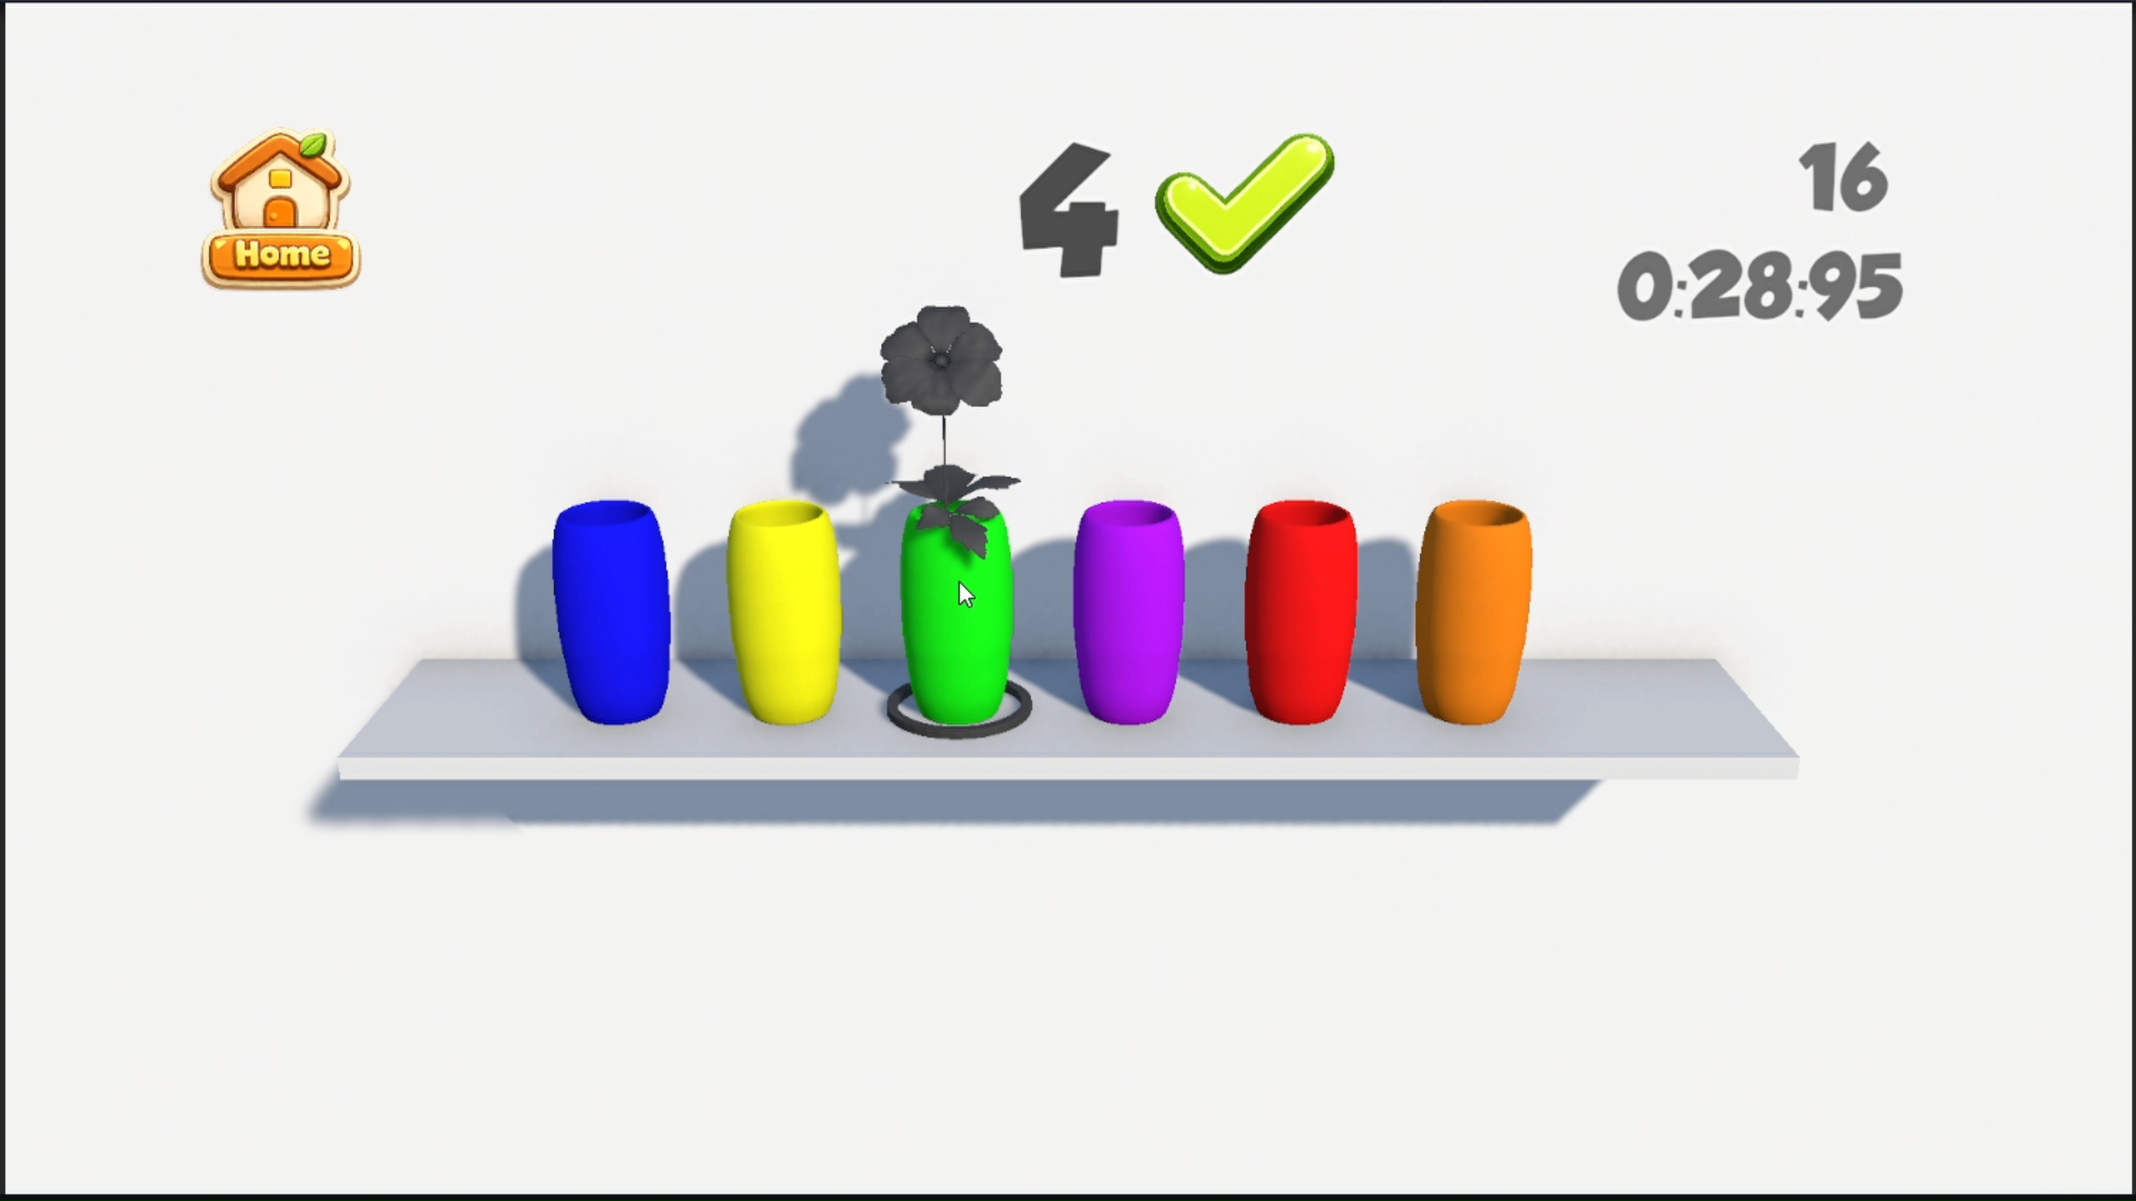
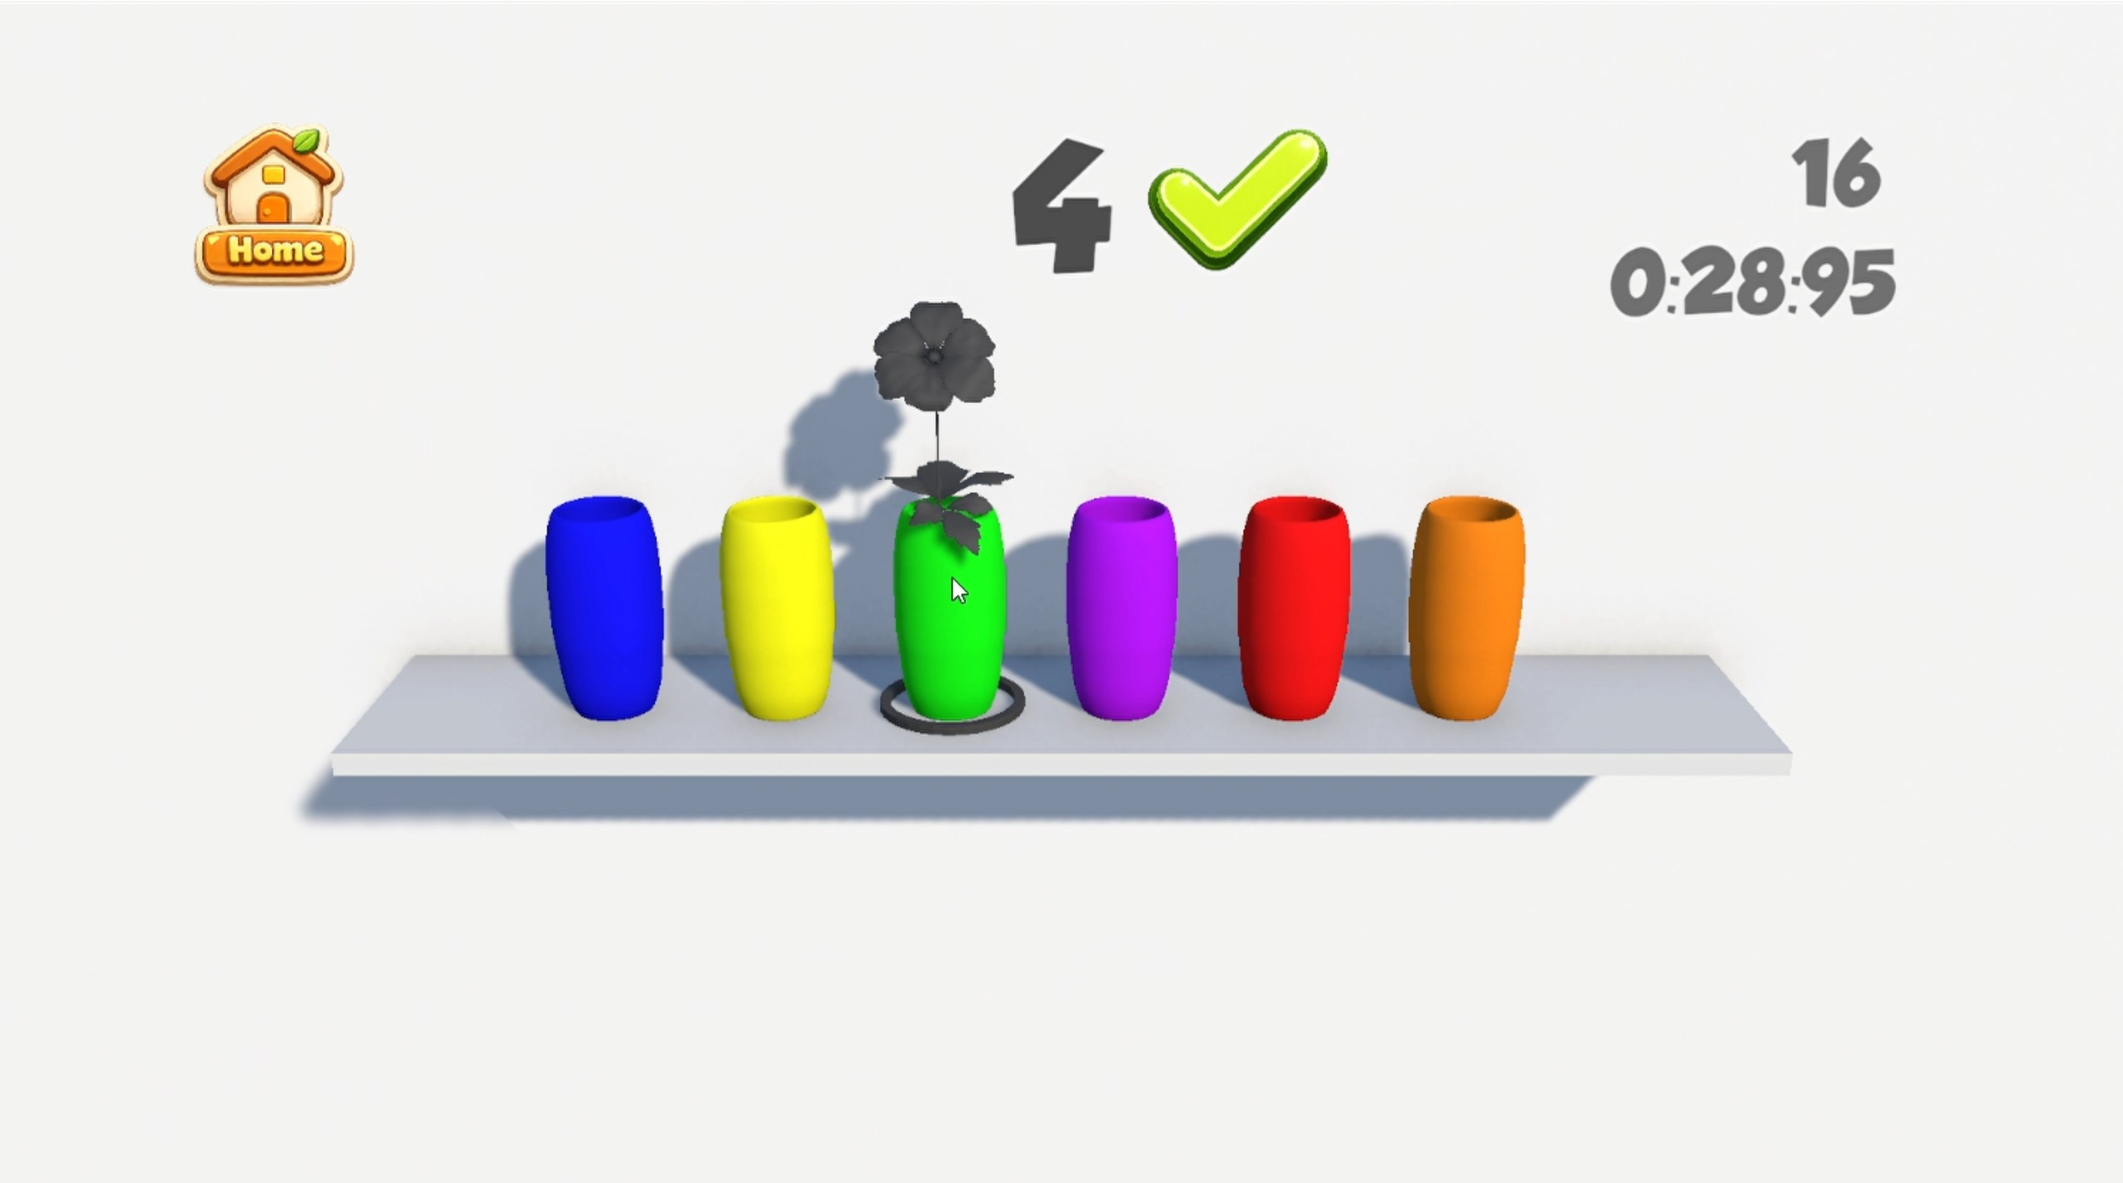
feat: Add portfolio category filters
Add accessible category buttons to filter project cards, refine modal media sizing and logo display, and improve pointer cursors and close-button styling. Update the Guess the Order image.

diff --git a/index.html b/index.html
@@ -302,10 +302,15 @@
             </p>
           </div>
 
-          <div id="portfolio-grid" class="grid grid-cols-1 divide-y divide-neutral-200 md:grid-cols-2 md:divide-y-0 md:gap-x-12 md:gap-y-24 xl:grid-cols-3">
+          <div class="mb-8 flex flex-wrap gap-2" role="group" aria-label="Filtrar projetos por categoria">
+            <button type="button" data-category-filter="all" aria-pressed="true" class="cursor-pointer rounded-full border border-neutral-950 bg-neutral-950 px-4 py-2 text-sm font-medium text-white focus-visible:outline-2 focus-visible:outline-offset-2 focus-visible:outline-black">Todos</button>
+            <button type="button" data-category-filter="web" aria-pressed="false" class="cursor-pointer rounded-full border border-neutral-300 px-4 py-2 text-sm font-medium text-neutral-700 hover:border-neutral-950 focus-visible:outline-2 focus-visible:outline-offset-2 focus-visible:outline-black aria-pressed:bg-neutral-950 aria-pressed:text-white">Web</button>
+            <button type="button" data-category-filter="unity-vr" aria-pressed="false" class="cursor-pointer rounded-full border border-neutral-300 px-4 py-2 text-sm font-medium text-neutral-700 hover:border-neutral-950 focus-visible:outline-2 focus-visible:outline-offset-2 focus-visible:outline-black aria-pressed:bg-neutral-950 aria-pressed:text-white">Unity · VR</button>
+            <button type="button" data-category-filter="design" aria-pressed="false" class="cursor-pointer rounded-full border border-neutral-300 px-4 py-2 text-sm font-medium text-neutral-700 hover:border-neutral-950 focus-visible:outline-2 focus-visible:outline-offset-2 focus-visible:outline-black aria-pressed:bg-neutral-950 aria-pressed:text-white">Design</button>
+          </div>          <div id="portfolio-grid" class="grid grid-cols-1 divide-y divide-neutral-200 md:grid-cols-2 md:divide-y-0 md:gap-x-12 md:gap-y-24 xl:grid-cols-3">
 
             <article class="group min-w-0 py-8 first:pt-0 last:pb-0 md:py-0 md:odd:mt-16 xl:mt-0" data-category="web">
-              <button class="portfolio-trigger relative block w-full overflow-hidden rounded-2xl bg-neutral-100 text-left focus-visible:outline-2 focus-visible:outline-offset-4 focus-visible:outline-black" data-project-id="calculadora"
+              <button class="portfolio-trigger relative block w-full cursor-pointer overflow-hidden rounded-2xl bg-neutral-100 text-left focus-visible:outline-2 focus-visible:outline-offset-4 focus-visible:outline-black" data-project-id="calculadora"
                 aria-label="Explorar Calculadora para compras">
                 <img src="/images/web/calculadoraMercado.jpg" alt="Interface da Calculadora para compras"
                   loading="lazy" class="aspect-[4/3] w-full object-cover transition duration-500 group-hover:scale-[1.03]">
@@ -319,7 +324,7 @@
             </article>
 
             <article class="group min-w-0 py-8 first:pt-0 last:pb-0 md:py-0 md:odd:mt-16 xl:mt-0" data-category="web">
-              <button class="portfolio-trigger relative block w-full overflow-hidden rounded-2xl bg-neutral-100 text-left focus-visible:outline-2 focus-visible:outline-offset-4 focus-visible:outline-black" data-project-id="simon" aria-label="Explorar Jogo Simon">
+              <button class="portfolio-trigger relative block w-full cursor-pointer overflow-hidden rounded-2xl bg-neutral-100 text-left focus-visible:outline-2 focus-visible:outline-offset-4 focus-visible:outline-black" data-project-id="simon" aria-label="Explorar Jogo Simon">
                 <img src="/images/web/jogoSimon.jpg" alt="Interface do jogo Simon" loading="lazy" class="aspect-[4/3] w-full object-cover transition duration-500 group-hover:scale-[1.03]">
                 <span class="absolute inset-x-0 bottom-0 flex items-center justify-between bg-gradient-to-t from-black/70 to-transparent px-5 pb-5 pt-12 text-sm font-medium text-white">Explorar projeto <span aria-hidden="true">↗</span></span>
               </button>
@@ -331,7 +336,7 @@
             </article>
 
             <article class="group min-w-0 py-8 first:pt-0 last:pb-0 md:py-0 md:odd:mt-16 xl:mt-0" data-category="unity-vr">
-              <button class="portfolio-trigger relative block w-full overflow-hidden rounded-2xl bg-neutral-100 text-left focus-visible:outline-2 focus-visible:outline-offset-4 focus-visible:outline-black" data-project-id="archery" aria-label="Explorar Archery Valley VR">
+              <button class="portfolio-trigger relative block w-full cursor-pointer overflow-hidden rounded-2xl bg-neutral-100 text-left focus-visible:outline-2 focus-visible:outline-offset-4 focus-visible:outline-black" data-project-id="archery" aria-label="Explorar Archery Valley VR">
                 <img src="/images/unity-vr/archery_valley_vr/img1_archery_valley_VR.jpg"
                   alt="Archery Valley VR em funcionamento" loading="lazy" class="aspect-[4/3] w-full object-cover transition duration-500 group-hover:scale-[1.03]">
                 <span class="absolute inset-x-0 bottom-0 flex items-center justify-between bg-gradient-to-t from-black/70 to-transparent px-5 pb-5 pt-12 text-sm font-medium text-white">Explorar projeto <span aria-hidden="true">↗</span></span>
@@ -344,7 +349,7 @@
             </article>
 
             <article class="group min-w-0 py-8 first:pt-0 last:pb-0 md:py-0 md:odd:mt-16 xl:mt-0" data-category="unity-vr">
-              <button class="portfolio-trigger relative block w-full overflow-hidden rounded-2xl bg-neutral-100 text-left focus-visible:outline-2 focus-visible:outline-offset-4 focus-visible:outline-black" data-project-id="fuel-rush" aria-label="Explorar Fuel Rush">
+              <button class="portfolio-trigger relative block w-full cursor-pointer overflow-hidden rounded-2xl bg-neutral-100 text-left focus-visible:outline-2 focus-visible:outline-offset-4 focus-visible:outline-black" data-project-id="fuel-rush" aria-label="Explorar Fuel Rush">
                 <img src="/images/unity-vr/Fuel_Rush/img1_fuel_rush.jpg" alt="Imagem de gameplay de Fuel Rush"
                   loading="lazy" class="aspect-[4/3] w-full object-cover transition duration-500 group-hover:scale-[1.03]">
                 <span class="absolute inset-x-0 bottom-0 flex items-center justify-between bg-gradient-to-t from-black/70 to-transparent px-5 pb-5 pt-12 text-sm font-medium text-white">Explorar projeto <span aria-hidden="true">↗</span></span>
@@ -357,7 +362,7 @@
             </article>
 
             <article class="group min-w-0 py-8 first:pt-0 last:pb-0 md:py-0 md:odd:mt-16 xl:mt-0" data-category="unity-vr">
-              <button class="portfolio-trigger relative block w-full overflow-hidden rounded-2xl bg-neutral-100 text-left focus-visible:outline-2 focus-visible:outline-offset-4 focus-visible:outline-black" data-project-id="guess-order" aria-label="Explorar Guess the Order">
+              <button class="portfolio-trigger relative block w-full cursor-pointer overflow-hidden rounded-2xl bg-neutral-100 text-left focus-visible:outline-2 focus-visible:outline-offset-4 focus-visible:outline-black" data-project-id="guess-order" aria-label="Explorar Guess the Order">
                 <img src="/images/unity-vr/guess_the_order/img1_guess_the_order.jpg"
                   alt="Imagem de gameplay de Guess the Order" loading="lazy" class="aspect-[4/3] w-full object-cover transition duration-500 group-hover:scale-[1.03]">
                 <span class="absolute inset-x-0 bottom-0 flex items-center justify-between bg-gradient-to-t from-black/70 to-transparent px-5 pb-5 pt-12 text-sm font-medium text-white">Explorar projeto <span aria-hidden="true">↗</span></span>
@@ -370,7 +375,7 @@
             </article>
 
             <article class="group min-w-0 py-8 first:pt-0 last:pb-0 md:py-0 md:odd:mt-16 xl:mt-0" data-category="design">
-              <button class="portfolio-trigger relative block w-full overflow-hidden rounded-2xl bg-neutral-100 text-left focus-visible:outline-2 focus-visible:outline-offset-4 focus-visible:outline-black" data-project-id="savana" aria-label="Explorar identidade visual Savana">
+              <button class="portfolio-trigger relative block w-full cursor-pointer overflow-hidden rounded-2xl bg-neutral-100 text-left focus-visible:outline-2 focus-visible:outline-offset-4 focus-visible:outline-black" data-project-id="savana" aria-label="Explorar identidade visual Savana">
                 <img src="/images/design/logo_savana.jpg" alt="Logótipo Savana" loading="lazy" class="aspect-[4/3] w-full object-cover transition duration-500 group-hover:scale-[1.03]">
                 <span class="absolute inset-x-0 bottom-0 flex items-center justify-between bg-gradient-to-t from-black/70 to-transparent px-5 pb-5 pt-12 text-sm font-medium text-white">Explorar projeto <span aria-hidden="true">↗</span></span>
               </button>
@@ -382,7 +387,7 @@
             </article>
 
             <article class="group min-w-0 py-8 first:pt-0 last:pb-0 md:py-0 md:odd:mt-16 xl:mt-0" data-category="design">
-              <button class="portfolio-trigger relative block w-full overflow-hidden rounded-2xl bg-neutral-100 text-left focus-visible:outline-2 focus-visible:outline-offset-4 focus-visible:outline-black" data-project-id="tio-marlos" aria-label="Explorar Barbearia Tio Marlos">
+              <button class="portfolio-trigger relative block w-full cursor-pointer overflow-hidden rounded-2xl bg-neutral-100 text-left focus-visible:outline-2 focus-visible:outline-offset-4 focus-visible:outline-black" data-project-id="tio-marlos" aria-label="Explorar Barbearia Tio Marlos">
                 <img src="/images/design/logo_barbearia_tio_marlos.jpg" alt="Logótipo Barbearia Tio Marlos"
                   loading="lazy" class="aspect-[4/3] w-full object-cover transition duration-500 group-hover:scale-[1.03]">
                 <span class="absolute inset-x-0 bottom-0 flex items-center justify-between bg-gradient-to-t from-black/70 to-transparent px-5 pb-5 pt-12 text-sm font-medium text-white">Explorar projeto <span aria-hidden="true">↗</span></span>
@@ -395,7 +400,7 @@
             </article>
 
             <article class="group min-w-0 py-8 first:pt-0 last:pb-0 md:py-0 md:odd:mt-16 xl:mt-0" data-category="design">
-              <button class="portfolio-trigger relative block w-full overflow-hidden rounded-2xl bg-neutral-100 text-left focus-visible:outline-2 focus-visible:outline-offset-4 focus-visible:outline-black" data-project-id="sallasinfor"
+              <button class="portfolio-trigger relative block w-full cursor-pointer overflow-hidden rounded-2xl bg-neutral-100 text-left focus-visible:outline-2 focus-visible:outline-offset-4 focus-visible:outline-black" data-project-id="sallasinfor"
                 aria-label="Explorar identidade visual Sallasinfor">
                 <img src="/images/design/logo_sallasinfor.jpg" alt="Logótipo Sallasinfor" loading="lazy" class="aspect-[4/3] w-full object-cover transition duration-500 group-hover:scale-[1.03]">
                 <span class="absolute inset-x-0 bottom-0 flex items-center justify-between bg-gradient-to-t from-black/70 to-transparent px-5 pb-5 pt-12 text-sm font-medium text-white">Explorar projeto <span aria-hidden="true">↗</span></span>
@@ -408,7 +413,7 @@
             </article>
 
             <article class="group min-w-0 py-8 first:pt-0 last:pb-0 md:py-0 md:odd:mt-16 xl:mt-0" data-category="design">
-              <button class="portfolio-trigger relative block w-full overflow-hidden rounded-2xl bg-neutral-100 text-left focus-visible:outline-2 focus-visible:outline-offset-4 focus-visible:outline-black" data-project-id="quarteto-art"
+              <button class="portfolio-trigger relative block w-full cursor-pointer overflow-hidden rounded-2xl bg-neutral-100 text-left focus-visible:outline-2 focus-visible:outline-offset-4 focus-visible:outline-black" data-project-id="quarteto-art"
                 aria-label="Explorar identidade visual Quarteto Art">
                 <img src="/images/design/logo_quarteto_art.jpg" alt="Logótipo Quarteto Art" loading="lazy" class="aspect-[4/3] w-full object-cover transition duration-500 group-hover:scale-[1.03]">
                 <span class="absolute inset-x-0 bottom-0 flex items-center justify-between bg-gradient-to-t from-black/70 to-transparent px-5 pb-5 pt-12 text-sm font-medium text-white">Explorar projeto <span aria-hidden="true">↗</span></span>
@@ -427,10 +432,10 @@
 
       <dialog id="project-modal" aria-labelledby="project-modal-title" aria-describedby="project-modal-description" class="m-auto max-h-[92dvh] w-[min(96vw,64rem)] overflow-y-auto rounded-2xl bg-white p-0 text-neutral-950 shadow-2xl backdrop:bg-black/70">
         <div class="relative p-5 sm:p-8">
-          <button type="button" data-modal-close aria-label="Fechar detalhes do projeto" class="absolute right-4 top-4 z-10 grid size-11 place-items-center rounded-full bg-white text-2xl shadow focus-visible:outline-2 focus-visible:outline-offset-2 focus-visible:outline-black">&times;</button>
+          <button type="button" data-modal-close aria-label="Fechar detalhes do projeto" class="absolute right-4 top-4 z-10 grid size-11 cursor-pointer place-items-center rounded-full border border-neutral-200 bg-white/95 text-neutral-800 shadow-sm transition hover:bg-neutral-100 focus-visible:outline-2 focus-visible:outline-offset-2 focus-visible:outline-black" title="Fechar"><svg aria-hidden="true" viewBox="0 0 24 24" fill="none" class="size-5" stroke="currentColor" stroke-width="1.8"><path d="m6 6 12 12M18 6 6 18" stroke-linecap="round"/></svg></button>
           <div class="grid gap-7 md:grid-cols-[minmax(0,1.4fr)_minmax(15rem,0.8fr)]">
             <div class="min-w-0">
-              <div id="project-modal-media" class="flex min-h-56 items-center justify-center overflow-hidden rounded-xl bg-neutral-100 sm:min-h-80" aria-live="polite"></div>
+              <div id="project-modal-media" class="relative aspect-video w-full overflow-hidden rounded-xl bg-neutral-950" aria-live="polite"></div>
               <div id="project-modal-thumbnails" class="mt-3 flex gap-3 overflow-x-auto pb-2" aria-label="Multimédia do projeto"></div>
             </div>
             <div class="pt-12 md:pt-8">

diff --git a/src/main.js b/src/main.js
@@ -56,22 +56,22 @@ const projects = {
   savana: {
     title: 'Savana', category: 'Design gráfico · Identidade visual',
     description: 'Criação de logótipo para a Savana, com uma proposta visual desenvolvida para representar a identidade do projeto.',
-    media: [{ type: 'image', src: '/images/design/logo_savana.jpg', alt: 'Logótipo Savana' }], links: [],
+    media: [{ type: 'image', src: '/images/design/logo_savana.jpg', alt: 'Logótipo Savana', fit: 'contain' }], links: [],
   },
   'tio-marlos': {
     title: 'Barbearia Tio Marlos', category: 'Design gráfico · Identidade visual',
     description: 'Desenvolvimento de logótipo para a Barbearia Tio Marlos, com uma identidade gráfica alinhada com o nome e o conceito da marca.',
-    media: [{ type: 'image', src: '/images/design/logo_barbearia_tio_marlos.jpg', alt: 'Logótipo Barbearia Tio Marlos' }], links: [],
+    media: [{ type: 'image', src: '/images/design/logo_barbearia_tio_marlos.jpg', alt: 'Logótipo Barbearia Tio Marlos', fit: 'contain' }], links: [],
   },
   sallasinfor: {
     title: 'Sallasinfor', category: 'Design gráfico · Identidade visual',
     description: 'Criação de logótipo para a Sallasinfor, com foco numa identidade visual própria para a marca.',
-    media: [{ type: 'image', src: '/images/design/logo_sallasinfor.jpg', alt: 'Logótipo Sallasinfor' }], links: [],
+    media: [{ type: 'image', src: '/images/design/logo_sallasinfor.jpg', alt: 'Logótipo Sallasinfor', fit: 'contain' }], links: [],
   },
   'quarteto-art': {
     title: 'Quarteto Art', category: 'Design gráfico · Identidade visual',
     description: 'Desenvolvimento de logótipo para o Quarteto Art, criando uma identidade visual associada ao projeto musical.',
-    media: [{ type: 'image', src: '/images/design/logo_quarteto_art.jpg', alt: 'Logótipo Quarteto Art' }], links: [],
+    media: [{ type: 'image', src: '/images/design/logo_quarteto_art.jpg', alt: 'Logótipo Quarteto Art', fit: 'contain' }], links: [],
   },
 }
 
@@ -89,7 +89,7 @@ function selectMedia(project, index) {
     const frame = document.createElement('iframe')
     frame.src = `https://www.youtube-nocookie.com/embed/${media.id}?autoplay=1&rel=0`
     frame.title = media.label
-    frame.className = 'aspect-video w-full self-stretch'
+    frame.className = 'absolute inset-0 h-full w-full scale-[1.02] border-0'
     frame.allow = 'accelerometer; autoplay; clipboard-write; encrypted-media; gyroscope; picture-in-picture; web-share'
     frame.referrerPolicy = 'strict-origin-when-cross-origin'
     frame.allowFullscreen = true
@@ -98,7 +98,7 @@ function selectMedia(project, index) {
     const image = document.createElement('img')
     image.src = media.src
     image.alt = media.alt
-    image.className = 'max-h-[65dvh] w-full object-contain'
+    image.className = 'h-full w-full ' + (media.fit === 'contain' ? 'bg-neutral-100 object-contain' : 'object-cover')
     mediaStage.append(image)
   }
 
@@ -131,7 +131,7 @@ function openProject(id, trigger) {
   project.media.forEach((media, index) => {
     const button = document.createElement('button')
     button.type = 'button'
-    button.className = 'relative h-20 w-28 shrink-0 overflow-hidden rounded-lg border-2 border-transparent focus-visible:outline-2 focus-visible:outline-offset-2 focus-visible:outline-black aria-pressed:border-black'
+    button.className = 'relative h-20 w-28 shrink-0 cursor-pointer overflow-hidden rounded-lg border-2 border-transparent focus-visible:outline-2 focus-visible:outline-offset-2 focus-visible:outline-black aria-pressed:border-black'
     button.setAttribute('aria-label', media.type === 'video' ? `Selecionar vídeo: ${media.label}` : `Selecionar imagem ${index + 1}: ${media.alt}`)
     button.setAttribute('aria-pressed', 'false')
     button.addEventListener('click', () => selectMedia(project, index))
@@ -167,4 +167,18 @@ dialog.addEventListener('click', (event) => {
 dialog.addEventListener('close', () => {
   mediaStage.replaceChildren()
   opener?.focus()
+})
+const categoryFilters = document.querySelectorAll('[data-category-filter]')
+const projectCards = document.querySelectorAll('#portfolio-grid [data-category]')
+
+categoryFilters.forEach((filter) => {
+  filter.addEventListener('click', () => {
+    const category = filter.dataset.categoryFilter
+    categoryFilters.forEach((button) => {
+      button.setAttribute('aria-pressed', String(button === filter))
+    })
+    projectCards.forEach((card) => {
+      card.hidden = category !== 'all' && card.dataset.category !== category
+    })
+  })
 })
